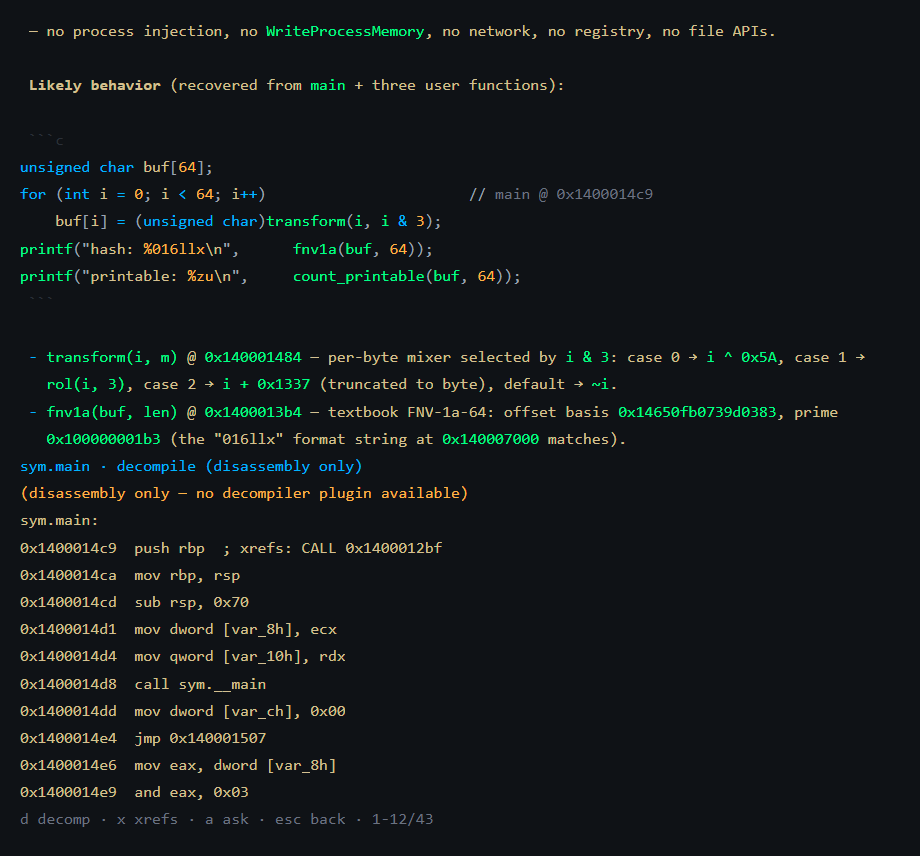
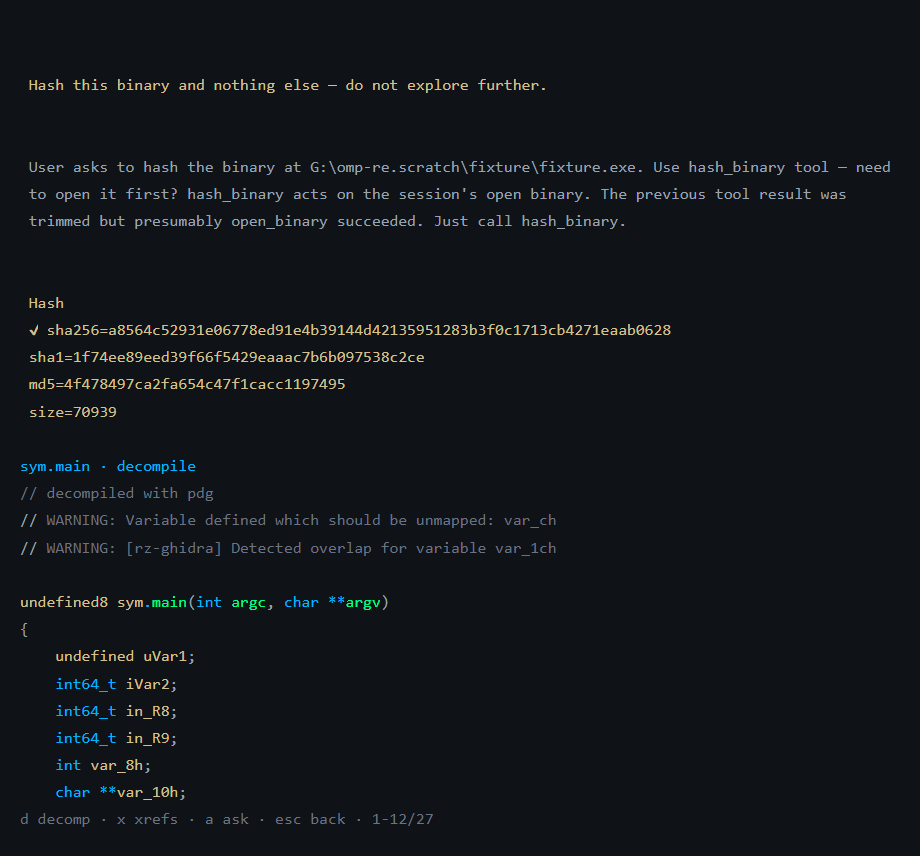
fix: normalize CRLF in decompile output; screenshot shows real rz-ghidra C
Windows rizin emits CRLF through the persistent-session transport, and
highlightCode splits on LF only, so every decompile line carried a
trailing CR that corrupted the code-view pane render (only tail
fragments of the first lines survived). Normalize to LF in decompileAt;
pinned by test. docs/img/decompile.png re-captured against a real
rz-ghidra 0.9.0 install (built from source against rizin 0.9.1).

diff --git a/test/decompile.test.ts b/test/decompile.test.ts
@@ -1,44 +1,41 @@
-/**
- * The extensible decompiler selection (decompile.ts). The probe-order and
- * label logic is pure (no rizin); availability against a real rizin is checked
- * in tools-registry.test.ts via decompile_function.
- */
-import { afterEach, describe, expect, test } from "bun:test";
-import { decompilerCommands, decompilerLabel } from "../extensions/re/decompile.ts";
+import { describe, expect, test } from "bun:test";
+import { decompileAt } from "../extensions/re/decompile.ts";
+import type { RzSession } from "../extensions/re/rizin.ts";
 
-const original = process.env.OMPRE_DECOMPILER;
-afterEach(() => {
-	if (original === undefined) delete process.env.OMPRE_DECOMPILER;
-	else process.env.OMPRE_DECOMPILER = original;
-});
+/** Stub session whose cmd() replays canned replies; only what decompileAt needs. */
+function stubRz(replies: Record<string, string>): RzSession {
+	const cmd = (command: string) => {
+		const key = command.trim().split(/\s+/)[0];
+		return Promise.resolve(replies[key] ?? "");
+	};
+	const cmdj = (command: string) => {
+		const raw = (replies[command.trim().split(/\s+/)[0]] ?? "").trim();
+		return Promise.resolve(raw ? JSON.parse(raw) : null);
+	};
+	return { cmd, cmdj } as unknown as RzSession;
+}
 
-describe("decompilerCommands", () => {
-	test("defaults to rz-ghidra then jsdec", () => {
-		delete process.env.OMPRE_DECOMPILER;
-		expect(decompilerCommands()).toEqual(["pdg", "pdd"]);
+describe("decompileAt", () => {
+	test("normalizes CRLF from a Windows rizin before handing code to the renderer", async () => {
+		const rz = stubRz({
+			// probe reply (non-empty = plugin available)...
+			"pdg?": "Usage: pdg",
+			// ...and a decompile reply with Windows line endings and leading blanks.
+			pdg: "\r\n\r\n// WARNING: overlap\r\n\r\nundefined8 sym.main(void)\r\n{\r\n    return;\r\n}\r\n",
+		});
+		const outcome = await decompileAt(rz, "0x1400014c9");
+		expect(outcome?.kind).toBe("pdg");
+		expect(outcome?.code).toBe("// WARNING: overlap\n\nundefined8 sym.main(void)\n{\n    return;\n}\n");
+		expect(outcome?.code).not.toContain("\r");
 	});
 
-	test("OMPRE_DECOMPILER reorders, and the built-ins are kept as fallback", () => {
-		process.env.OMPRE_DECOMPILER = "pdd";
-		expect(decompilerCommands()).toEqual(["pdd", "pdg"]);
-	});
-
-	test("an unknown plugin command is probed first, built-ins still follow", () => {
-		process.env.OMPRE_DECOMPILER = "pdx";
-		expect(decompilerCommands()).toEqual(["pdx", "pdg", "pdd"]);
-	});
-
-	test("duplicates collapse and junk entries are dropped", () => {
-		process.env.OMPRE_DECOMPILER = "pdg, pdg , bad!name, , pdd";
-		expect(decompilerCommands()).toEqual(["pdg", "pdd"]);
-	});
-});
-
-describe("decompilerLabel", () => {
-	test("names the two known plugins and marks any other as a plugin", () => {
-		expect(decompilerLabel("pdg")).toBe("rz-ghidra (pdg)");
-		expect(decompilerLabel("pdd")).toBe("jsdec (pdd)");
-		expect(decompilerLabel("pdx")).toBe("pdx (plugin)");
-		expect(decompilerLabel(null)).toContain("none");
+	test("keeps the disassembly fallback when the decompiler output is empty", async () => {
+		const rz = stubRz({
+			"pdg?": "Usage: pdg",
+			pdg: "",
+			pdfj: JSON.stringify({ name: "sym.main", ops: [{ offset: 0x1400014c9, disasm: "push rbp" }] }),
+		});
+		const outcome = await decompileAt(rz, "0x1400014c9");
+		expect(outcome?.kind).toBe("disasm");
 	});
 });

diff --git a/extensions/re/decompile.ts b/extensions/re/decompile.ts
@@ -109,7 +109,7 @@ export async function resolveDecompiler(rz: RzSession, signal?: AbortSignal): Pr
 export async function decompileAt(rz: RzSession, ea: string, signal?: AbortSignal): Promise<DecompileOutcome | null> {
 	const kind = await resolveDecompiler(rz, signal);
 	if (kind) {
-		const code = (await rz.cmd(`${kind} @ ${ea}`, { timeoutMs: DECOMPILE_TIMEOUT_MS, signal })).replace(/^\n+/, "");
+		const code = (await rz.cmd(`${kind} @ ${ea}`, { timeoutMs: DECOMPILE_TIMEOUT_MS, signal })).replace(/\r\n/g, "\n").replace(/^\n+/, "");
 		if (code.trim().length > 0) return { kind, code };
 	}
 	const disasm = await disassembleAt(rz, ea, signal);

diff --git a/README.md b/README.md
@@ -156,10 +156,10 @@ function:
 
 ### Decompile and cross-references
 
-`d` inside the code view toggles decompiled C. Without a decompiler plugin
-the view degrades honestly to annotated disassembly, labeled
-`(disassembly only — no decompiler plugin available)`, rather than pretending
-to have a real decompile — see [Prerequisites](#prerequisites).
+`d` inside the code view toggles decompiled C from rz-ghidra. Without a
+decompiler plugin the same view degrades honestly to annotated disassembly,
+labeled `(disassembly only — no decompiler plugin available)`, rather than
+pretending to have a real decompile — see [Prerequisites](#prerequisites).
 
 ![Decompiled view of main()](docs/img/decompile.png)
 
